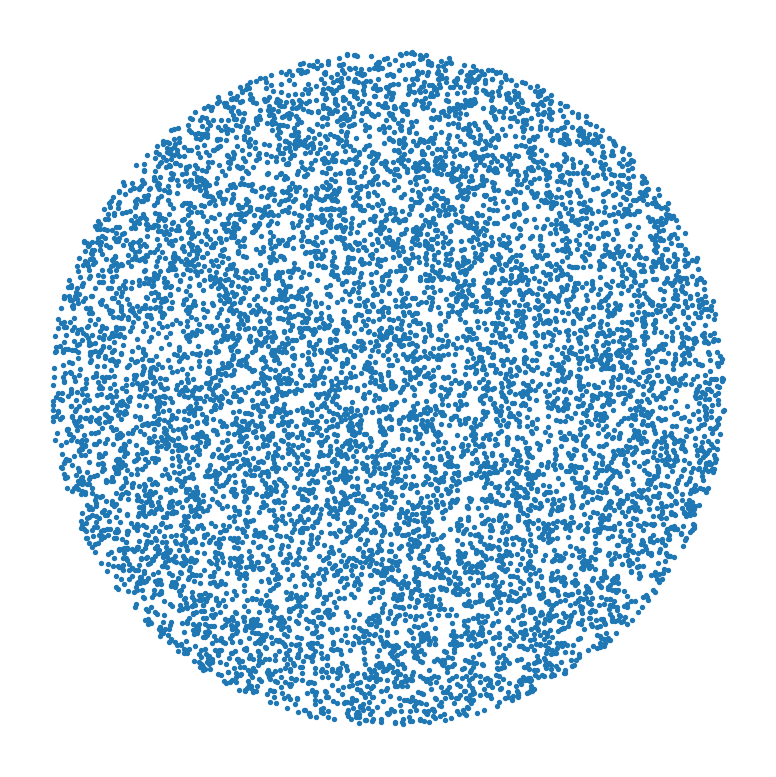
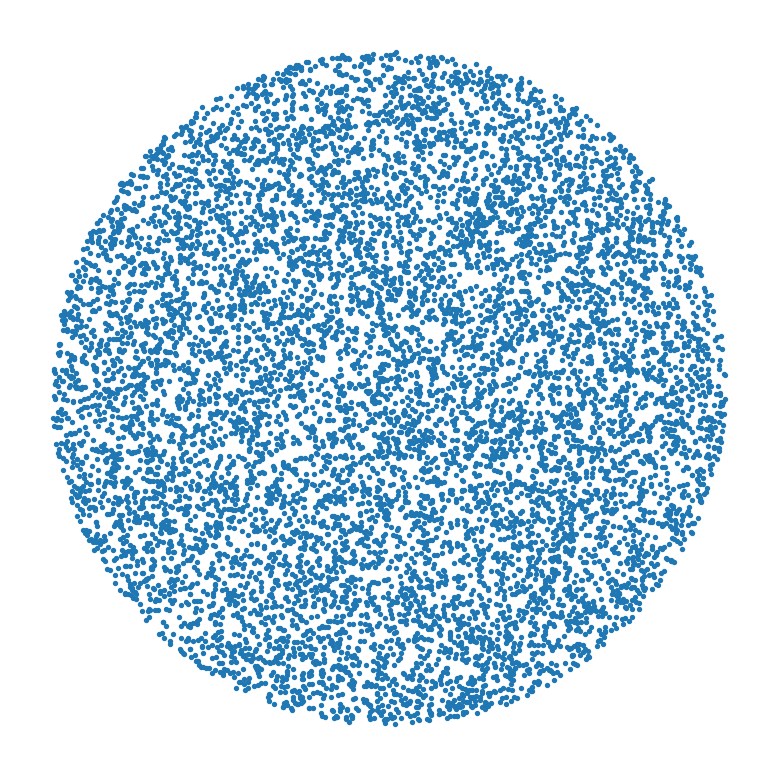
Built site for gh-pages

diff --git a/index.html b/index.html
@@ -172,7 +172,7 @@ window.Quarto = {
 <!-- margin-sidebar -->
     <div id="quarto-margin-sidebar" class="sidebar margin-sidebar">
         
-    <h5 class="quarto-listing-category-title">Categories</h5><div class="quarto-listing-category category-default"><div class="category" data-category="">All <span class="quarto-category-count">(11)</span></div><div class="category" data-category="YXJ0">art <span class="quarto-category-count">(1)</span></div><div class="category" data-category="Y29kZQ==">code <span class="quarto-category-count">(2)</span></div><div class="category" data-category="bWF0aA==">math <span class="quarto-category-count">(8)</span></div><div class="category" data-category="bXVzaWM=">music <span class="quarto-category-count">(8)</span></div><div class="category" data-category="cGlhbm8=">piano <span class="quarto-category-count">(1)</span></div><div class="category" data-category="dGhlLXNoYXBlLW9mLWEtc291bmQ=">the-shape-of-a-sound <span class="quarto-category-count">(7)</span></div></div></div>
+    <h5 class="quarto-listing-category-title">Categories</h5><div class="quarto-listing-category category-default"><div class="category" data-category="">All <span class="quarto-category-count">(5)</span></div><div class="category" data-category="YXJ0">art <span class="quarto-category-count">(1)</span></div><div class="category" data-category="Y29kZQ==">code <span class="quarto-category-count">(2)</span></div><div class="category" data-category="bWF0aA==">math <span class="quarto-category-count">(2)</span></div><div class="category" data-category="bXVzaWM=">music <span class="quarto-category-count">(2)</span></div><div class="category" data-category="cGlhbm8=">piano <span class="quarto-category-count">(1)</span></div></div></div>
 <!-- main -->
 <main class="content quarto-banner-title-block column-page-left" id="quarto-document-content">
 
@@ -200,67 +200,7 @@ Title
 </thead>
 <tbody class="list">
 
-<tr data-index="0" data-categories="bWF0aCUyQ211c2ljJTJDdGhlLXNoYXBlLW9mLWEtc291bmQ=" data-listing-date-sort="1793286000000" data-listing-file-modified-sort="1793311114509" data-listing-date-modified-sort="NaN" data-listing-reading-time-sort="48" data-listing-word-count-sort="9408" data-listing-title-sort="What you hear" data-listing-filename-sort="index.qmd">
-<td>
-<span class="listing-date">Oct 29, 2026</span>
-</td>
-<td>
-<a href="./posts/what-you-hear/index.html" class="title listing-title">What you hear</a>
-</td>
-
-</tr>
-
-<tr data-index="1" data-categories="bWF0aCUyQ211c2ljJTJDdGhlLXNoYXBlLW9mLWEtc291bmQ=" data-listing-date-sort="1793282400000" data-listing-file-modified-sort="1793311114510" data-listing-date-modified-sort="NaN" data-listing-reading-time-sort="41" data-listing-word-count-sort="8009" data-listing-title-sort="Where the equations come from" data-listing-filename-sort="index.qmd">
-<td>
-<span class="listing-date">Oct 29, 2026</span>
-</td>
-<td>
-<a href="./posts/where-the-equations-come-from/index.html" class="title listing-title">Where the equations come from</a>
-</td>
-
-</tr>
-
-<tr data-index="2" data-categories="bWF0aCUyQ211c2ljJTJDdGhlLXNoYXBlLW9mLWEtc291bmQ=" data-listing-date-sort="1793278800000" data-listing-file-modified-sort="1793311114509" data-listing-date-modified-sort="NaN" data-listing-reading-time-sort="62" data-listing-word-count-sort="12354" data-listing-title-sort="When an equation has a spectrum" data-listing-filename-sort="index.qmd">
-<td>
-<span class="listing-date">Oct 29, 2026</span>
-</td>
-<td>
-<a href="./posts/when-an-equation-has-a-spectrum/index.html" class="title listing-title">When an equation has a spectrum</a>
-</td>
-
-</tr>
-
-<tr data-index="3" data-categories="bWF0aCUyQ211c2ljJTJDdGhlLXNoYXBlLW9mLWEtc291bmQ=" data-listing-date-sort="1793275200000" data-listing-file-modified-sort="1793311114506" data-listing-date-modified-sort="NaN" data-listing-reading-time-sort="21" data-listing-word-count-sort="4048" data-listing-title-sort="Instruments, case by case" data-listing-filename-sort="index.qmd">
-<td>
-<span class="listing-date">Oct 29, 2026</span>
-</td>
-<td>
-<a href="./posts/instruments-case-by-case/index.html" class="title listing-title">Instruments, case by case</a>
-</td>
-
-</tr>
-
-<tr data-index="4" data-categories="bWF0aCUyQ211c2ljJTJDdGhlLXNoYXBlLW9mLWEtc291bmQ=" data-listing-date-sort="1793271600000" data-listing-file-modified-sort="1793311114503" data-listing-date-modified-sort="NaN" data-listing-reading-time-sort="32" data-listing-word-count-sort="6217" data-listing-title-sort="Can you hear the shape of a drum?" data-listing-filename-sort="index.qmd">
-<td>
-<span class="listing-date">Oct 29, 2026</span>
-</td>
-<td>
-<a href="./posts/hear-the-shape-of-a-drum/index.html" class="title listing-title">Can you hear the shape of a drum?</a>
-</td>
-
-</tr>
-
-<tr data-index="5" data-categories="bWF0aCUyQ211c2ljJTJDdGhlLXNoYXBlLW9mLWEtc291bmQ=" data-listing-date-sort="1793268000000" data-listing-file-modified-sort="1793311114505" data-listing-date-modified-sort="NaN" data-listing-reading-time-sort="17" data-listing-word-count-sort="3291" data-listing-title-sort="Did instruments shape our scales?" data-listing-filename-sort="index.qmd">
-<td>
-<span class="listing-date">Oct 29, 2026</span>
-</td>
-<td>
-<a href="./posts/instruments-and-scales/index.html" class="title listing-title">Did instruments shape our scales?</a>
-</td>
-
-</tr>
-
-<tr data-index="6" data-categories="bXVzaWMlMkNtYXRoJTJDcGlhbm8=" data-listing-date-sort="1793232000000" data-listing-file-modified-sort="1793311114417" data-listing-date-modified-sort="NaN" data-listing-reading-time-sort="8" data-listing-word-count-sort="1429" data-listing-title-sort="A Piano" data-listing-filename-sort="index.qmd">
+<tr data-index="0" data-categories="bXVzaWMlMkNtYXRoJTJDcGlhbm8=" data-listing-date-sort="1793232000000" data-listing-file-modified-sort="1793316589295" data-listing-date-modified-sort="NaN" data-listing-reading-time-sort="8" data-listing-word-count-sort="1429" data-listing-title-sort="A Piano" data-listing-filename-sort="index.qmd">
 <td>
 <span class="listing-date">Oct 29, 2026</span>
 </td>
@@ -270,7 +210,7 @@ Title
 
 </tr>
 
-<tr data-index="7" data-categories="bWF0aCUyQ211c2ljJTJDdGhlLXNoYXBlLW9mLWEtc291bmQ=" data-listing-date-sort="1792886400000" data-listing-file-modified-sort="1793311114505" data-listing-date-modified-sort="1793232000000" data-listing-reading-time-sort="17" data-listing-word-count-sort="3311" data-listing-title-sort="The Shape of a Sound" data-listing-filename-sort="index.qmd">
+<tr data-index="1" data-categories="bWF0aCUyQ211c2lj" data-listing-date-sort="1792886400000" data-listing-file-modified-sort="1793316589382" data-listing-date-modified-sort="1793232000000" data-listing-reading-time-sort="17" data-listing-word-count-sort="3315" data-listing-title-sort="The Shape of a Sound" data-listing-filename-sort="index.qmd">
 <td>
 <span class="listing-date">Oct 25, 2026</span>
 </td>
@@ -280,7 +220,7 @@ Title
 
 </tr>
 
-<tr data-index="8" data-categories="YXJ0" data-listing-date-sort="1700524800000" data-listing-file-modified-sort="1793311114502" data-listing-date-modified-sort="1700697600000" data-listing-reading-time-sort="3" data-listing-word-count-sort="401" data-listing-title-sort="A Bicycle Wheel" data-listing-filename-sort="index.qmd">
+<tr data-index="2" data-categories="YXJ0" data-listing-date-sort="1700524800000" data-listing-file-modified-sort="1793316589380" data-listing-date-modified-sort="1700697600000" data-listing-reading-time-sort="3" data-listing-word-count-sort="401" data-listing-title-sort="A Bicycle Wheel" data-listing-filename-sort="index.qmd">
 <td>
 <span class="listing-date">Nov 21, 2023</span>
 </td>
@@ -290,7 +230,7 @@ Title
 
 </tr>
 
-<tr data-index="9" data-categories="Y29kZQ==" data-listing-date-sort="1697673600000" data-listing-file-modified-sort="1793311114507" data-listing-date-modified-sort="1700697600000" data-listing-reading-time-sort="2" data-listing-word-count-sort="220" data-listing-title-sort="Inverse Sampling Transform" data-listing-filename-sort="index.qmd">
+<tr data-index="3" data-categories="Y29kZQ==" data-listing-date-sort="1697673600000" data-listing-file-modified-sort="1793316589385" data-listing-date-modified-sort="1700697600000" data-listing-reading-time-sort="2" data-listing-word-count-sort="220" data-listing-title-sort="Inverse Sampling Transform" data-listing-filename-sort="index.qmd">
 <td>
 <span class="listing-date">Oct 19, 2023</span>
 </td>
@@ -300,7 +240,7 @@ Title
 
 </tr>
 
-<tr data-index="10" data-categories="Y29kZQ==" data-listing-date-sort="1695340800000" data-listing-file-modified-sort="1793311114502" data-listing-date-modified-sort="1700697600000" data-listing-reading-time-sort="3" data-listing-word-count-sort="528" data-listing-title-sort="How to Break Nested For Loop" data-listing-filename-sort="index.qmd">
+<tr data-index="4" data-categories="Y29kZQ==" data-listing-date-sort="1695340800000" data-listing-file-modified-sort="1793316589380" data-listing-date-modified-sort="1700697600000" data-listing-reading-time-sort="3" data-listing-word-count-sort="528" data-listing-title-sort="How to Break Nested For Loop" data-listing-filename-sort="index.qmd">
 <td>
 <span class="listing-date">Sep 22, 2023</span>
 </td>

diff --git a/posts/instruments-as-operators/index.html b/posts/instruments-as-operators/index.html
@@ -163,11 +163,10 @@ window.Quarto = {
 <header id="title-block-header" class="quarto-title-block default">
 <div class="quarto-title">
 <h1 class="title">The Shape of a Sound</h1>
-<p class="subtitle lead">The mathematics of musical sound: a series</p>
+<p class="subtitle lead">The mathematics of musical sound, in four posts and two more beyond</p>
   <div class="quarto-categories">
     <div class="quarto-category">math</div>
     <div class="quarto-category">music</div>
-    <div class="quarto-category">the-shape-of-a-sound</div>
   </div>
   </div>
 
@@ -212,14 +211,6 @@ window.Quarto = {
 <li>Where do the differential equations of instruments come from?</li>
 <li>When is the solution of a differential equation a sum over the spectrum of an operator, what is the deeper theory, and how does it connect back to 1 and 2?</li>
 </ol>
-<section id="the-series-in-one-paragraph" class="level2">
-<h2 class="anchored" data-anchor-id="the-series-in-one-paragraph">The series in one paragraph</h2>
-<p>A vibrating object of finite size whose motion is <a href="../../posts/instruments-as-operators/glossary.html#linear">linear</a> and unchanging in time moves, left to itself, as a sum of <a href="../../posts/instruments-as-operators/glossary.html#mode">modes</a>, apart from the special cases <a href="../../posts/when-an-equation-has-a-spectrum/index.html#counterexamples">post 3 lists</a>: shapes that each oscillate at their own frequency <span class="math inline">f_k</span> and fade with their own time <span class="math inline">\tau_k</span>. The body, the air and the room pass that motion on to a listener in a way that is also linear and unchanging in time: this keeps every <span class="math inline">f_k</span> and <span class="math inline">\tau_k</span>, changes the amounts, and adds the filter’s own ringing (the body’s resonances, the room’s reverberation). So the instrument’s part of the sound is <span class="math display">
-p(t) = \sum_k a_k\, e^{-t/\tau_k} \cos(2\pi f_k t + \varphi_k).
-</span> The equation of motion (the operator, together with friction and radiation) fixes the <span class="math inline">f_k</span> and <span class="math inline">\tau_k</span>; the playing, the radiation and where you listen fix the <span class="math inline">a_k</span>. The four aspects are heard from these lists, through the ear’s own weighting: pitch mainly from where the <span class="math inline">f_k</span> sit; loudness from the sizes, weighted by frequency; timbre from all three lists, especially early on, plus noise that is not a mode; duration from the fading and from when the player stops or damps the note. Bowed and blown instruments are different: their motion is a single repeating cycle, so its <a href="../../posts/instruments-as-operators/glossary.html#partial">partials</a> sit at exact whole-number multiples; the resonator’s modes shape which partials are strong, and the player sets loudness and duration.</p>
-<p>The series derives the <span class="math inline">f_k</span>; the <span class="math inline">\tau_k</span> are mostly measured, and it says so where it uses them.</p>
-<p>Here <span class="math inline">p(t)</span> is the air pressure at the listener; <span class="math inline">a_k</span> is how strongly the <span class="math inline">k</span>-th partial sounds, <span class="math inline">\varphi_k</span> where in its cycle it starts, and <span class="math inline">e^{-t/\tau_k}</span> says that it shrinks by a factor of <span class="math inline">e \approx 2.7</span> every <span class="math inline">\tau_k</span> seconds.</p>
-</section>
 <section id="the-posts" class="level2">
 <h2 class="anchored" data-anchor-id="the-posts">The posts</h2>
 <ol type="1">
@@ -229,6 +220,14 @@ p(t) = \sum_k a_k\, e^{-t/\tau_k} \cos(2\pi f_k t + \varphi_k).
 <li><a href="../../posts/instruments-case-by-case/index.html"><strong>Instruments, case by case</strong></a> puts the answers to work on one instrument per page, starting from an orchestra: violin, clarinet, kalimba, harmonica, piano, bass drum and kettledrum.</li>
 </ol>
 <p>Two further posts take up questions the answers raise: <a href="../../posts/hear-the-shape-of-a-drum/index.html"><em>Can you hear the shape of a drum?</em></a> and <a href="../../posts/instruments-and-scales/index.html"><em>Did instruments shape our scales?</em></a>. <a href="../../posts/a-piano/index.html"><em>A Piano</em></a> is a playable upright with all 88 keys and its three pedals. Technical words link to the <a href="../../posts/instruments-as-operators/glossary.html">glossary</a>.</p>
+</section>
+<section id="the-series-in-one-paragraph" class="level2">
+<h2 class="anchored" data-anchor-id="the-series-in-one-paragraph">The series in one paragraph</h2>
+<p>A vibrating object of finite size whose motion is <a href="../../posts/instruments-as-operators/glossary.html#linear">linear</a> and unchanging in time moves, left to itself, as a sum of <a href="../../posts/instruments-as-operators/glossary.html#mode">modes</a>, apart from the special cases <a href="../../posts/when-an-equation-has-a-spectrum/index.html#counterexamples">post 3 lists</a>: shapes that each oscillate at their own frequency <span class="math inline">f_k</span> and fade with their own time <span class="math inline">\tau_k</span>. The body, the air and the room pass that motion on to a listener in a way that is also linear and unchanging in time: this keeps every <span class="math inline">f_k</span> and <span class="math inline">\tau_k</span>, changes the amounts, and adds the filter’s own ringing (the body’s resonances, the room’s reverberation). So the instrument’s part of the sound is <span class="math display">
+p(t) = \sum_k a_k\, e^{-t/\tau_k} \cos(2\pi f_k t + \varphi_k).
+</span> The equation of motion (the operator, together with friction and radiation) fixes the <span class="math inline">f_k</span> and <span class="math inline">\tau_k</span>; the playing, the radiation and where you listen fix the <span class="math inline">a_k</span>. The four aspects are heard from these lists, through the ear’s own weighting: pitch mainly from where the <span class="math inline">f_k</span> sit; loudness from the sizes, weighted by frequency; timbre from all three lists, especially early on, plus noise that is not a mode; duration from the fading and from when the player stops or damps the note. Bowed and blown instruments are different: their motion is a single repeating cycle, so its <a href="../../posts/instruments-as-operators/glossary.html#partial">partials</a> sit at exact whole-number multiples; the resonator’s modes shape which partials are strong, and the player sets loudness and duration.</p>
+<p>The series derives the <span class="math inline">f_k</span>; the <span class="math inline">\tau_k</span> are mostly measured, and it says so where it uses them.</p>
+<p>Here <span class="math inline">p(t)</span> is the air pressure at the listener; <span class="math inline">a_k</span> is how strongly the <span class="math inline">k</span>-th partial sounds, <span class="math inline">\varphi_k</span> where in its cycle it starts, and <span class="math inline">e^{-t/\tau_k}</span> says that it shrinks by a factor of <span class="math inline">e \approx 2.7</span> every <span class="math inline">\tau_k</span> seconds.</p>
 </section>
 <section id="reading-paths" class="level2">
 <h2 class="anchored" data-anchor-id="reading-paths">Reading paths</h2>

diff --git a/posts/break-for/index.html b/posts/break-for/index.html
@@ -201,7 +201,7 @@ pre > code.sourceCode > span > a:first-child::before { text-decoration: underlin
 <section id="single-nested-for-loop" class="level2" data-number="1">
 <h2 data-number="1" class="anchored" data-anchor-id="single-nested-for-loop"><span class="header-section-number">1</span> Single Nested <code>for</code> Loop</h2>
 <p>In a <code>for</code>-<code>else</code> clause, <code>else</code> is reached precisely when the <code>for</code> loop is not broken. We give 2 examples to demonstrate this.</p>
-<div id="91f438df" class="cell" data-execution_count="1">
+<div id="c47ae074" class="cell" data-execution_count="1">
 <div class="code-copy-outer-scaffold"><div class="sourceCode cell-code" id="cb1"><pre class="sourceCode python code-with-copy"><code class="sourceCode python"><span id="cb1-1"><a href="#cb1-1" aria-hidden="true" tabindex="-1"></a><span class="cf">for</span> i <span class="kw">in</span> <span class="bu">range</span>(<span class="dv">3</span>):</span>
 <span id="cb1-2"><a href="#cb1-2" aria-hidden="true" tabindex="-1"></a>    <span class="cf">if</span> i <span class="op">==</span> <span class="dv">4</span>:</span>
 <span id="cb1-3"><a href="#cb1-3" aria-hidden="true" tabindex="-1"></a>        <span class="cf">break</span></span>
@@ -211,7 +211,7 @@ pre > code.sourceCode > span > a:first-child::before { text-decoration: underlin
 <pre><code>Finished for loop layer 1</code></pre>
 </div>
 </div>
-<div id="b1b2c0b9" class="cell" data-execution_count="2">
+<div id="ea34ad31" class="cell" data-execution_count="2">
 <div class="code-copy-outer-scaffold"><div class="sourceCode cell-code" id="cb3"><pre class="sourceCode python code-with-copy"><code class="sourceCode python"><span id="cb3-1"><a href="#cb3-1" aria-hidden="true" tabindex="-1"></a><span class="cf">for</span> i <span class="kw">in</span> <span class="bu">range</span>(<span class="dv">3</span>):</span>
 <span id="cb3-2"><a href="#cb3-2" aria-hidden="true" tabindex="-1"></a>    <span class="cf">if</span> i <span class="op">==</span> <span class="dv">2</span>:</span>
 <span id="cb3-3"><a href="#cb3-3" aria-hidden="true" tabindex="-1"></a>        <span class="cf">break</span></span>
@@ -222,7 +222,7 @@ pre > code.sourceCode > span > a:first-child::before { text-decoration: underlin
 <section id="double-nested-for-loop" class="level2" data-number="2">
 <h2 data-number="2" class="anchored" data-anchor-id="double-nested-for-loop"><span class="header-section-number">2</span> Double Nested <code>for</code> Loop</h2>
 <p>Here, the program halts right after <code>(i,j)</code> reaches <code>(2,1)</code>, which is what we want.</p>
-<div id="b2211d30" class="cell" data-execution_count="3">
+<div id="7b41fe64" class="cell" data-execution_count="3">
 <div class="code-copy-outer-scaffold"><div class="sourceCode cell-code" id="cb4"><pre class="sourceCode python code-with-copy"><code class="sourceCode python"><span id="cb4-1"><a href="#cb4-1" aria-hidden="true" tabindex="-1"></a><span class="cf">for</span> i <span class="kw">in</span> <span class="bu">range</span>(<span class="dv">4</span>): <span class="co"># Layer 1</span></span>
 <span id="cb4-2"><a href="#cb4-2" aria-hidden="true" tabindex="-1"></a>    <span class="bu">print</span>(<span class="ss">f"Layer 1 for i = </span><span class="sc">{</span>i<span class="sc">}</span><span class="ss">: start"</span>)</span>
 <span id="cb4-3"><a href="#cb4-3" aria-hidden="true" tabindex="-1"></a>    <span class="cf">for</span> j <span class="kw">in</span> <span class="bu">range</span>(<span class="dv">3</span>): <span class="co"># Layer 2</span></span>
@@ -250,7 +250,7 @@ Layer 1 for i = 2: start
 </div>
 </div>
 <p>Here, no <code>continue</code> in the <code>else</code> part. Thus, the program breaks unconditionally after finishing its job in the <code>i==0</code> round.</p>
-<div id="4603c9fa" class="cell" data-execution_count="4">
+<div id="2a3ea79e" class="cell" data-execution_count="4">
 <div class="code-copy-outer-scaffold"><div class="sourceCode cell-code" id="cb6"><pre class="sourceCode python code-with-copy"><code class="sourceCode python"><span id="cb6-1"><a href="#cb6-1" aria-hidden="true" tabindex="-1"></a><span class="cf">for</span> i <span class="kw">in</span> <span class="bu">range</span>(<span class="dv">4</span>):</span>
 <span id="cb6-2"><a href="#cb6-2" aria-hidden="true" tabindex="-1"></a>    <span class="bu">print</span>(<span class="ss">f"Layer 1 for i = </span><span class="sc">{</span>i<span class="sc">}</span><span class="ss">: start"</span>)</span>
 <span id="cb6-3"><a href="#cb6-3" aria-hidden="true" tabindex="-1"></a>    <span class="cf">for</span> j <span class="kw">in</span> <span class="bu">range</span>(<span class="dv">3</span>):</span>
@@ -272,7 +272,7 @@ Layer 1 for i = 2: start
 <section id="triple-nested-for-loop" class="level2" data-number="3">
 <h2 data-number="3" class="anchored" data-anchor-id="triple-nested-for-loop"><span class="header-section-number">3</span> Triple Nested <code>for</code> Loop</h2>
 <p>OK, we’ve learnt enough. Now, let’s test it on a triple nested <code>for</code> loop!</p>
-<div id="33edf6d7" class="cell" data-execution_count="5">
+<div id="228aa6d0" class="cell" data-execution_count="5">
 <div class="code-copy-outer-scaffold"><div class="sourceCode cell-code" id="cb8"><pre class="sourceCode python code-with-copy"><code class="sourceCode python"><span id="cb8-1"><a href="#cb8-1" aria-hidden="true" tabindex="-1"></a><span class="cf">for</span> i <span class="kw">in</span> <span class="bu">range</span>(<span class="dv">3</span>):</span>
 <span id="cb8-2"><a href="#cb8-2" aria-hidden="true" tabindex="-1"></a>    <span class="cf">for</span> j <span class="kw">in</span> <span class="bu">range</span>(<span class="dv">4</span>):</span>
 <span id="cb8-3"><a href="#cb8-3" aria-hidden="true" tabindex="-1"></a>        <span class="cf">for</span> k <span class="kw">in</span> <span class="bu">range</span>(<span class="dv">2</span>):</span>

diff --git a/posts/sampling/index.html b/posts/sampling/index.html
@@ -298,7 +298,7 @@ window.Quarto = {
 <div id="fig-uniform-sampling-unit-disk" class="quarto-float quarto-figure quarto-figure-center anchored">
 <figure class="quarto-float quarto-float-fig figure">
 <div aria-describedby="fig-uniform-sampling-unit-disk-caption-0ceaefa1-69ba-4598-a22c-09a6ac19f8ca">
-<img src="index_files/figure-html/fig-uniform-sampling-unit-disk-output-1.png" width="388" height="389" class="figure-img">
+<img src="index_files/figure-html/fig-uniform-sampling-unit-disk-output-1.png" width="389" height="389" class="figure-img">
 </div>
 <figcaption class="quarto-float-caption-bottom quarto-float-caption quarto-float-fig" id="fig-uniform-sampling-unit-disk-caption-0ceaefa1-69ba-4598-a22c-09a6ac19f8ca">
 Figure&nbsp;1: Sampling 10000 points uniformly on the unit disk.
